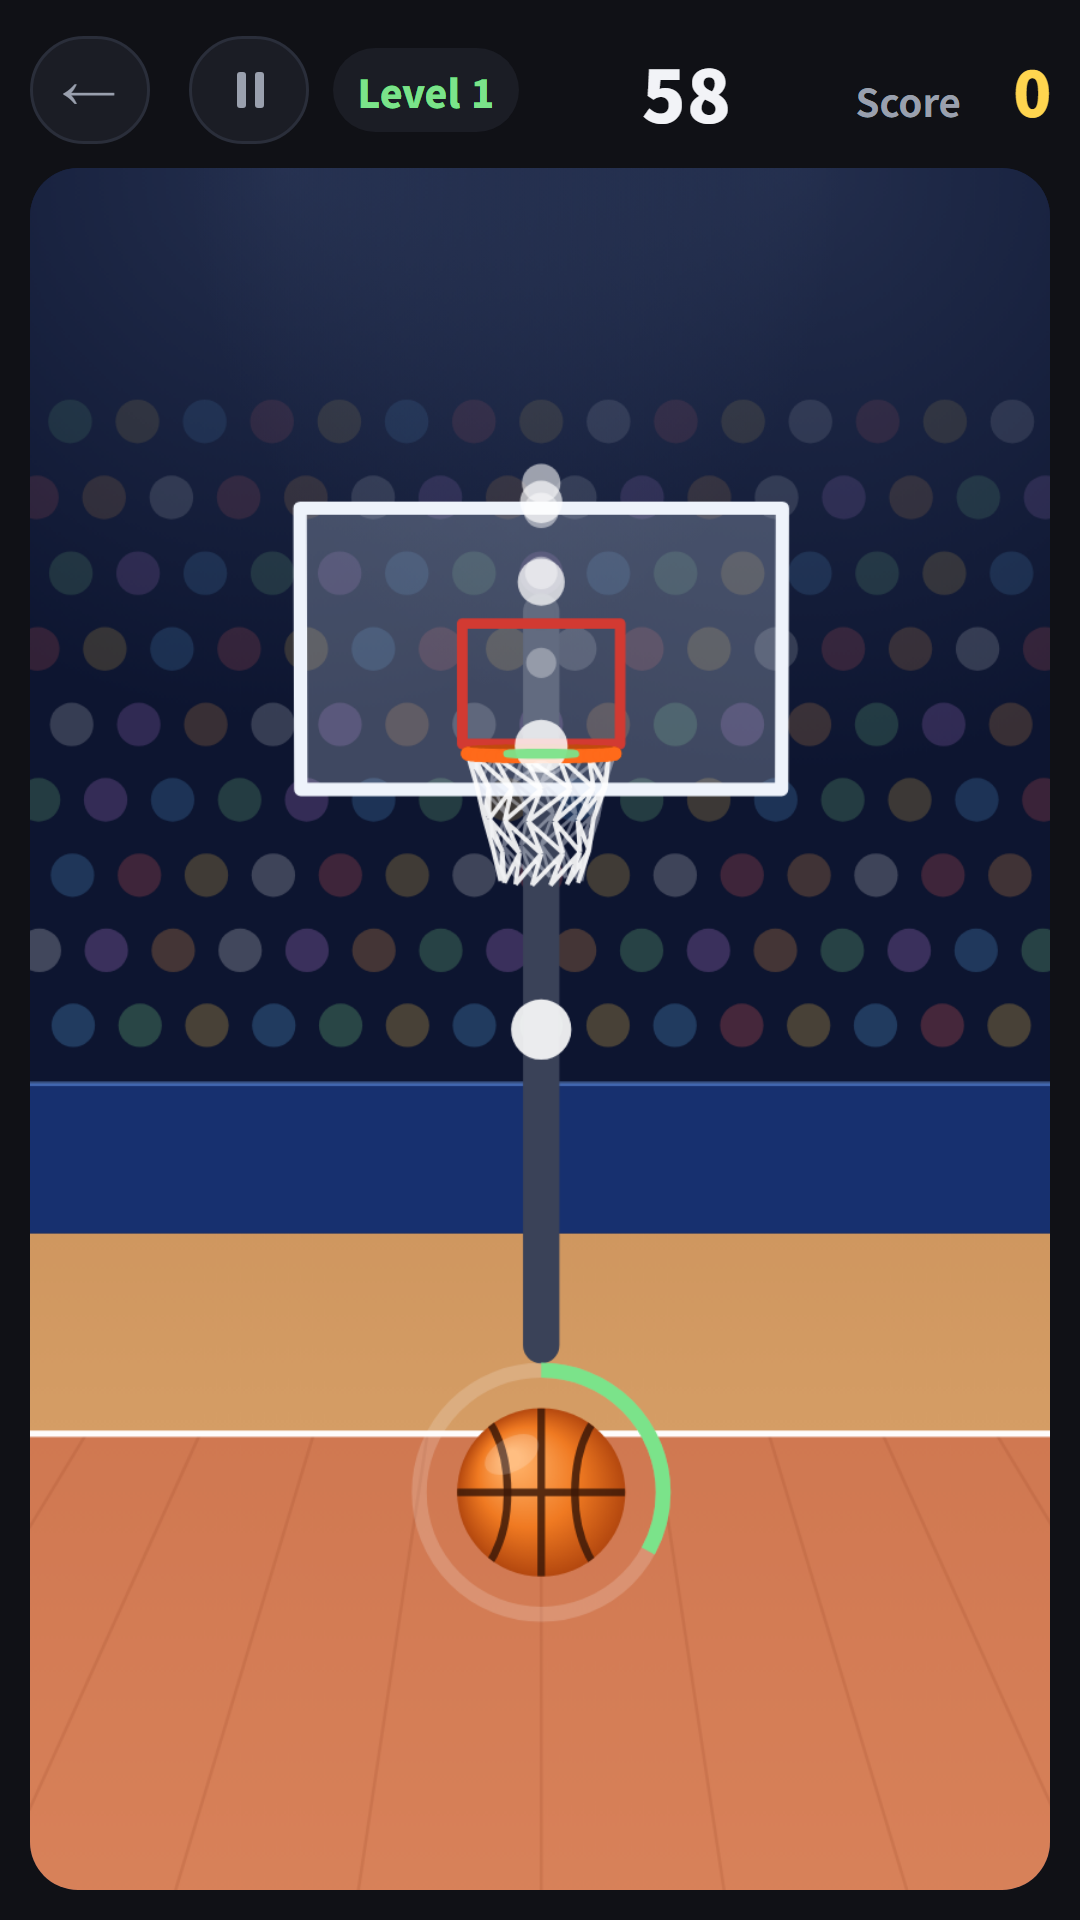
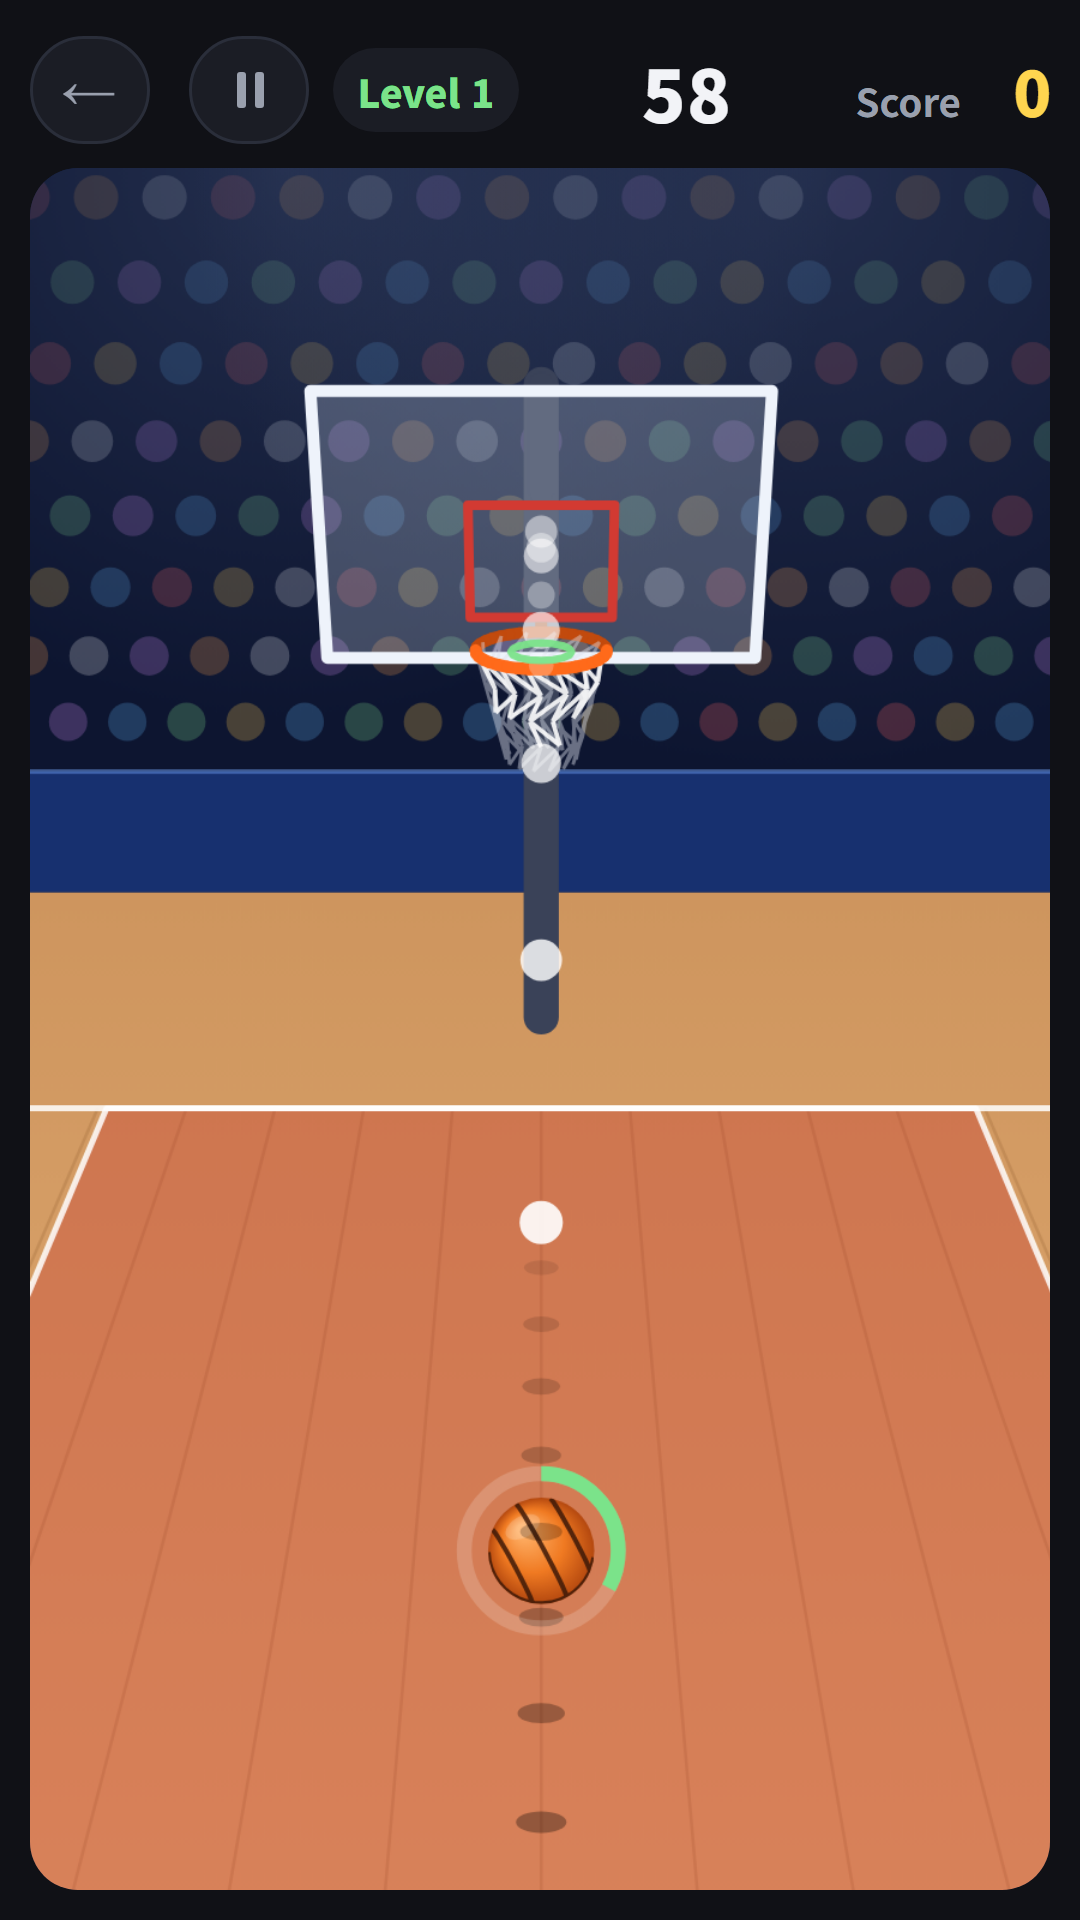
농구 슛 소개글 한/영: 1.2.0 연속 던지기 절(Shorts ktAjpG8rfS8)·3D 항공샷 이미지·새 시작 화면

diff --git a/_posts/2026-10-24-hoop-shot.md b/_posts/2026-10-24-hoop-shot.md
@@ -21,7 +21,7 @@ alt_url: /posts/hoop-shot/
 - 점수: 기본 2점, 3점 선 뒤에서 던지면 3점이에요. 클린 슛·뱅크 슛·버저비터 보너스도 있어요
 - 연속 득점 배수는 최대 ×4, 6연속이면 공에 불이 붙어요
 - 시간이 끝날 때 날아가던 공도 끝까지 봐요. 들어가면 버저비터 +2
-- 시작 화면에서 **시작하기**로 일반 게임을, **오늘의 슛 챌린지**로 오늘의 판을 시작해요
+- 시작 화면에서 **2D 슛아웃**으로 일반 게임을, **오늘의 슛 챌린지**로 오늘의 판을 시작해요
 
 ## 특징
 - 7단계: 슛 자리가 바뀌고, 3점 거리가 열리고, 골대가 위아래로 움직이며 점점 빨라져요
@@ -33,7 +33,7 @@ alt_url: /posts/hoop-shot/
 
 무료로 즐길 수 있고 광고가 포함되어 있습니다.
 
-![시작 화면 — 오늘의 슛 챌린지와 시작하기](/assets/img/20261024_hoop-shot/hoop-shot-shot-ko-1.png){: w="360" }
+![시작 화면 — 오늘의 슛 챌린지 · 2D 슛아웃 · 3D 슛아웃](/assets/img/20261024_hoop-shot/hoop-shot-shot-ko-1.png){: w="360" }
 ![레벨 1, 60초 시작 — 공을 밀어 올려 조준해요](/assets/img/20261024_hoop-shot/hoop-shot-shot-ko-2.png){: w="360" }
 ![득점 뒤 ×2 연속 득점 배수가 켜진 화면](/assets/img/20261024_hoop-shot/hoop-shot-shot-ko-3.png){: w="360" }
 
@@ -50,10 +50,23 @@ alt_url: /posts/hoop-shot/
 - 실제 농구처럼 림 위에서 떨어져 들어간 슛만 득점이에요
 - 기록은 기본 모드와 따로 쌓이고, 기록 화면 위 탭으로 골라 봐요
 
-![3D 슛아웃 — 옆 자리에서 던진 공이 림에 들어가는 순간](/assets/img/20261024_hoop-shot/hoop-shot-3d-ko-1.png){: w="360" }
+![3D 슛아웃 — 내려다보는 시점에서 공이 림에 들어가는 순간](/assets/img/20261024_hoop-shot/hoop-shot-3d-ko-1.png){: w="360" }
 ![3D 슛아웃 조준 — 점선과 떨어질 자리 초록 고리](/assets/img/20261024_hoop-shot/hoop-shot-3d-ko-2.png){: w="360" }
 
 {% include embed/youtube.html id='Cidr2j06eGs' %}
+
+## 연속 던지기(1.2.0)
+1.2.0 업데이트부터 2D·3D 모두 앞 공이 날고 있어도 바로 다음 공을 던질 수 있어요.
+
+- 공끼리 부딪혀요. 들어갈 공이 다른 공에 맞아 튕겨 나가기도 하고, 빗나갈 공이 밀려 들어가기도 해요
+- 공은 실제 슛처럼 백스핀으로 돌다가 림·백보드·바닥에 닿으면 회전이 바뀌어요
+- 3D 슛아웃은 슈터 뒤 위에서 내려다봐서 공이 코트 어디까지 가는지 거리감이 잘 보여요. 조준 점선의 그림자도 바닥에 비쳐요
+- 3D에서는 손가락을 옆으로 움직이면 서는 자리도 옆으로 옮겨요
+- 시작 화면은 **오늘의 슛 챌린지 · 2D 슛아웃 · 3D 슛아웃** 세 버튼이 한 줄로 바뀌었어요
+
+![2D 슛아웃 — 앞 공이 날고 있는 동안 다음 공을 던지는 장면](/assets/img/20261024_hoop-shot/hoop-shot-rapid-ko-1.png){: w="360" }
+
+{% include embed/youtube.html id='ktAjpG8rfS8' %}
 
 ## Download
 - Google Play: <https://play.google.com/store/apps/details?id=com.fadongkwon.hoop_shot>

diff --git a/_en_posts/2026-10-24-hoop-shot.md b/_en_posts/2026-10-24-hoop-shot.md
@@ -23,7 +23,7 @@ Press anywhere on the screen, push up and let go to shoot. You have 60 seconds: 
 - Scoring: 2 points, or 3 points from behind the line, plus bonuses for clean shots, bank shots and buzzer-beaters
 - Streak multiplier up to x4. At 6 in a row the ball catches fire
 - The shot in the air at the buzzer still counts. Sink it for a +2 buzzer-beater
-- On the start screen, tap **Start** for a regular game or **Daily Shootout** for today's game
+- On the start screen, tap **2D Shootout** for a regular game or **Daily Shootout** for today's game
 
 ## Features
 - 7 levels: the shooting spot moves, the 3-point range opens, then the hoop moves up and down faster and faster
@@ -35,7 +35,7 @@ Press anywhere on the screen, push up and let go to shoot. You have 60 seconds: 
 
 It is free to play and contains ads.
 
-![The start screen: Daily Shootout and Start](/assets/img/20261024_hoop-shot/hoop-shot-shot-en-1.png){: w="360" }
+![The start screen: Daily Shootout, 2D Shootout and 3D Shootout](/assets/img/20261024_hoop-shot/hoop-shot-shot-en-1.png){: w="360" }
 ![Level 1 with 60 seconds on the clock, aiming the ball](/assets/img/20261024_hoop-shot/hoop-shot-shot-en-2.png){: w="360" }
 ![After a basket, the x2 streak multiplier lights up](/assets/img/20261024_hoop-shot/hoop-shot-shot-en-3.png){: w="360" }
 
@@ -52,10 +52,23 @@ Version 1.1.0 adds a new mode, **3D Shootout**. Start it with the purple **3D Sh
 - Just like real basketball, only shots that drop through the rim from above count
 - 3D scores are saved separately; switch between modes with the tabs on the records screen
 
-![3D Shootout: a shot from the side dropping into the rim](/assets/img/20261024_hoop-shot/hoop-shot-3d-en-1.png){: w="360" }
+![3D Shootout from above: a shot dropping into the rim](/assets/img/20261024_hoop-shot/hoop-shot-3d-en-1.png){: w="360" }
 ![3D Shootout aiming: the dotted line and the green landing ring](/assets/img/20261024_hoop-shot/hoop-shot-3d-en-2.png){: w="360" }
 
 {% include embed/youtube.html id='Cidr2j06eGs' %}
+
+## Rapid Fire (1.2.0)
+From version 1.2.0 you can throw the next ball while the last one is still in the air, in both 2D and 3D.
+
+- Balls collide: a ball that was going in can be knocked out, and a miss can be pushed in
+- Every ball spins with real backspin, and the spin changes when it hits the rim, the backboard or the floor
+- 3D Shootout now looks down from above the player, so you can see how far the ball travels across the court; the aiming dots cast shadows on the floor too
+- In 3D, slide your finger left or right to move where you stand
+- The start screen now has three buttons in one row: **Daily Shootout · 2D Shootout · 3D Shootout**
+
+![2D Shootout: throwing the next ball while the last one is still in the air](/assets/img/20261024_hoop-shot/hoop-shot-rapid-en-1.png){: w="360" }
+
+{% include embed/youtube.html id='ktAjpG8rfS8' %}
 
 ## Download
 - Google Play: <https://play.google.com/store/apps/details?id=com.fadongkwon.hoop_shot>
